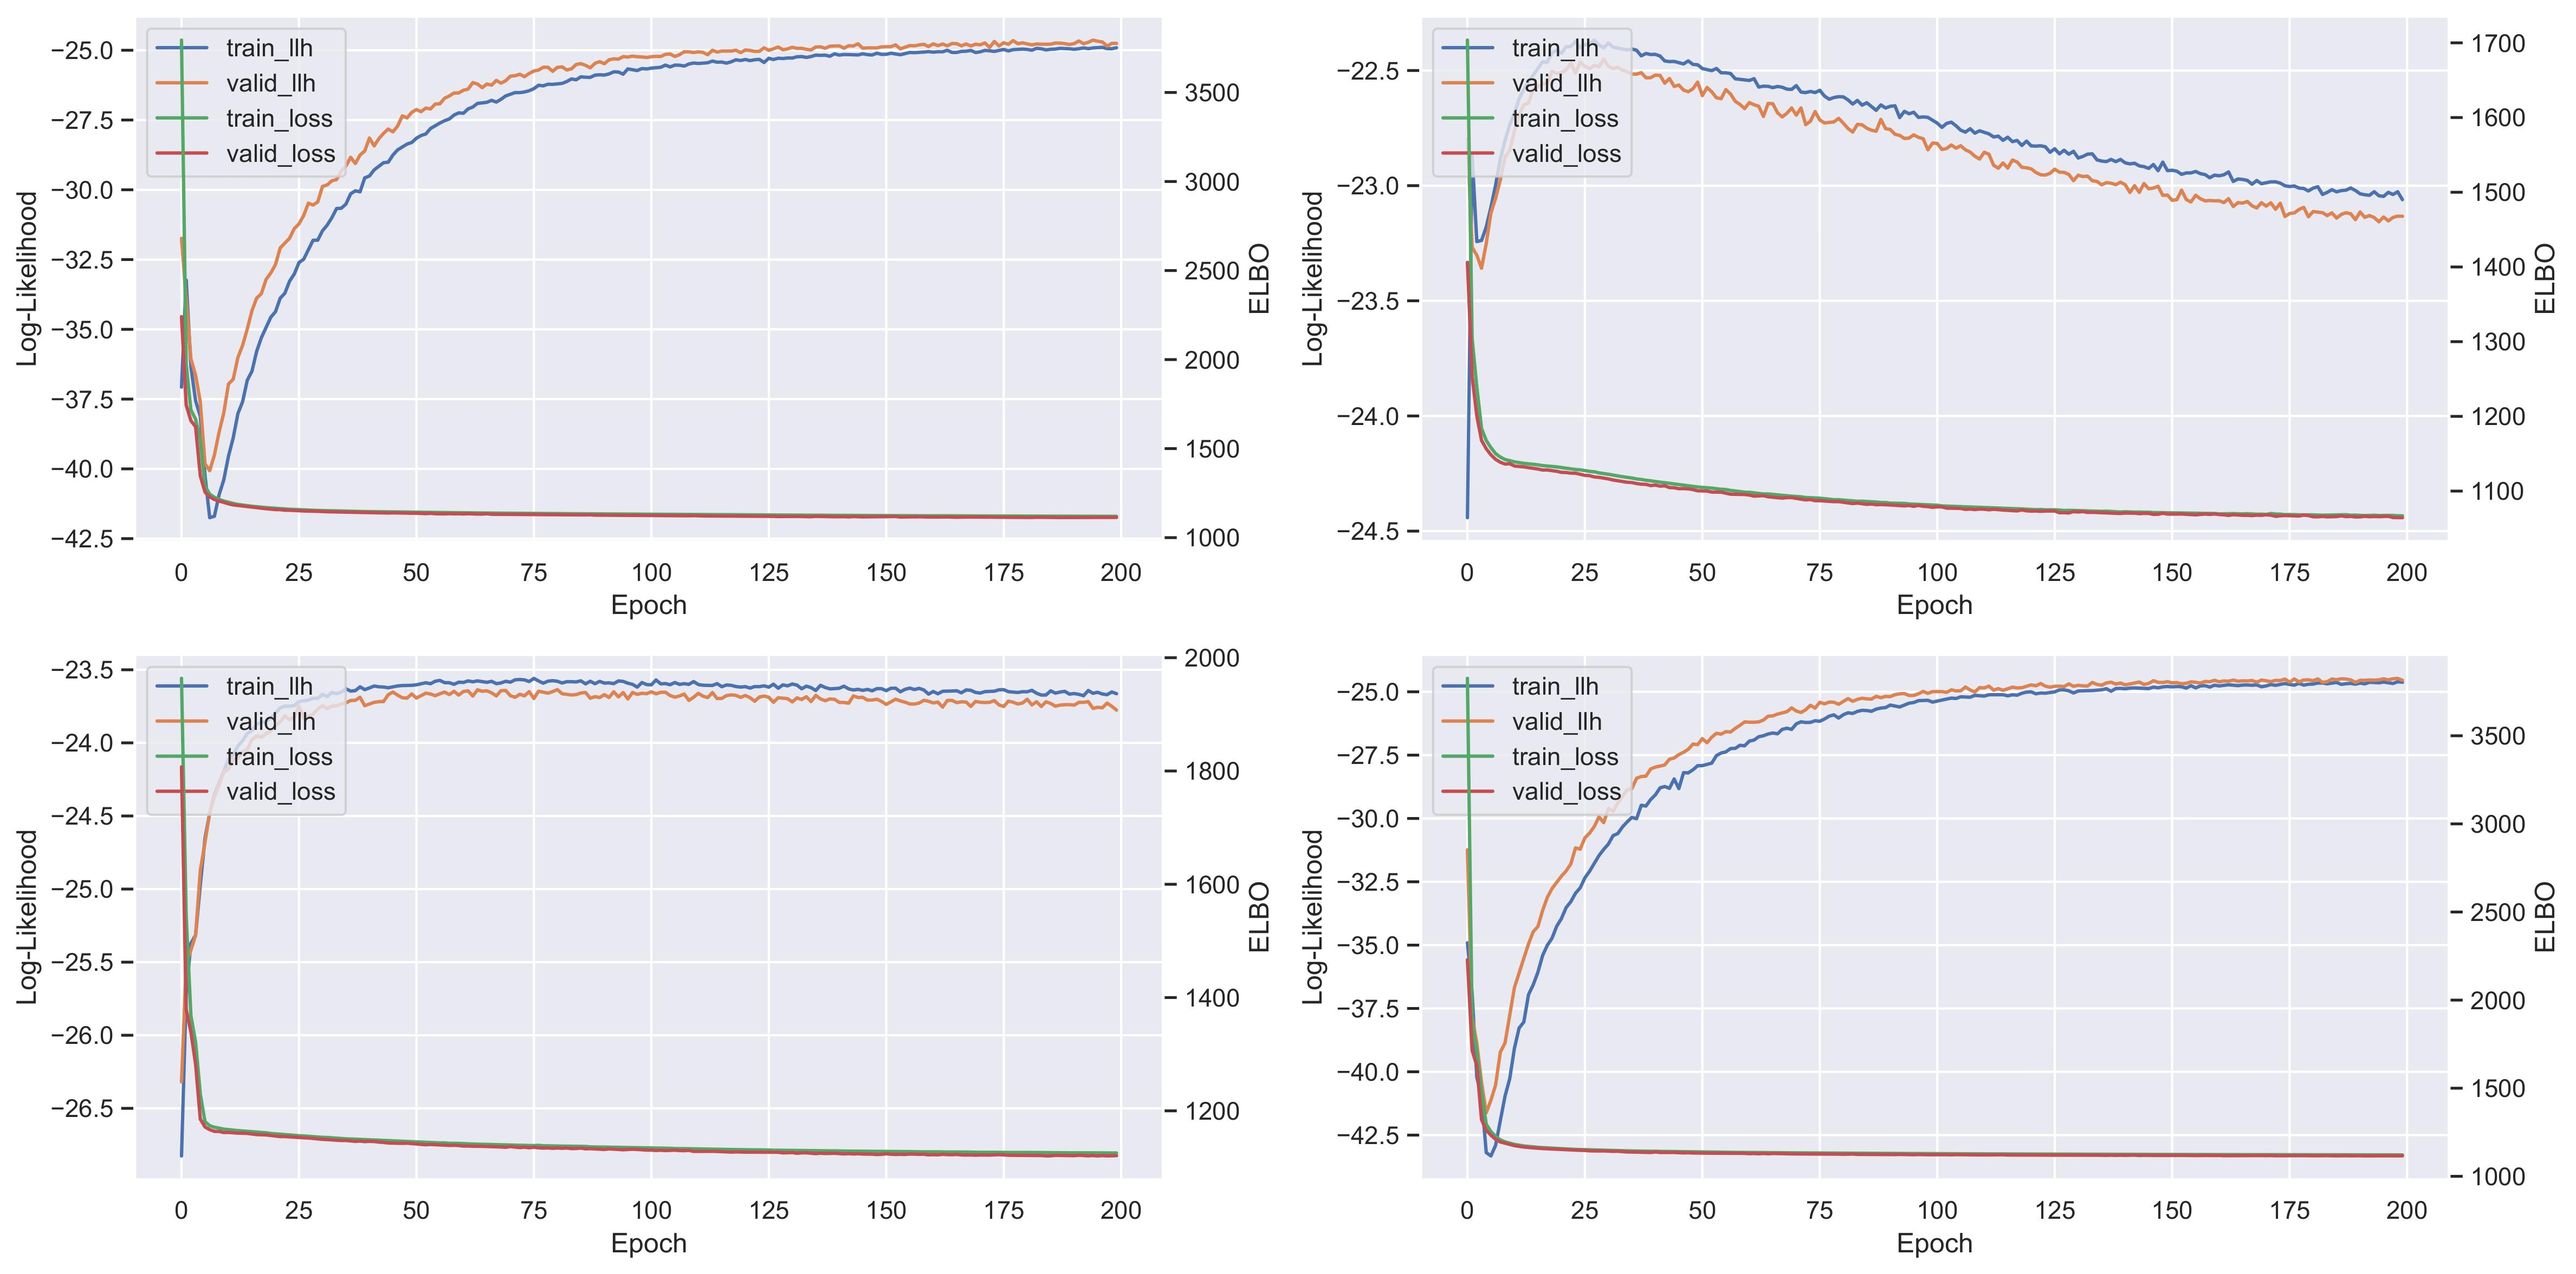
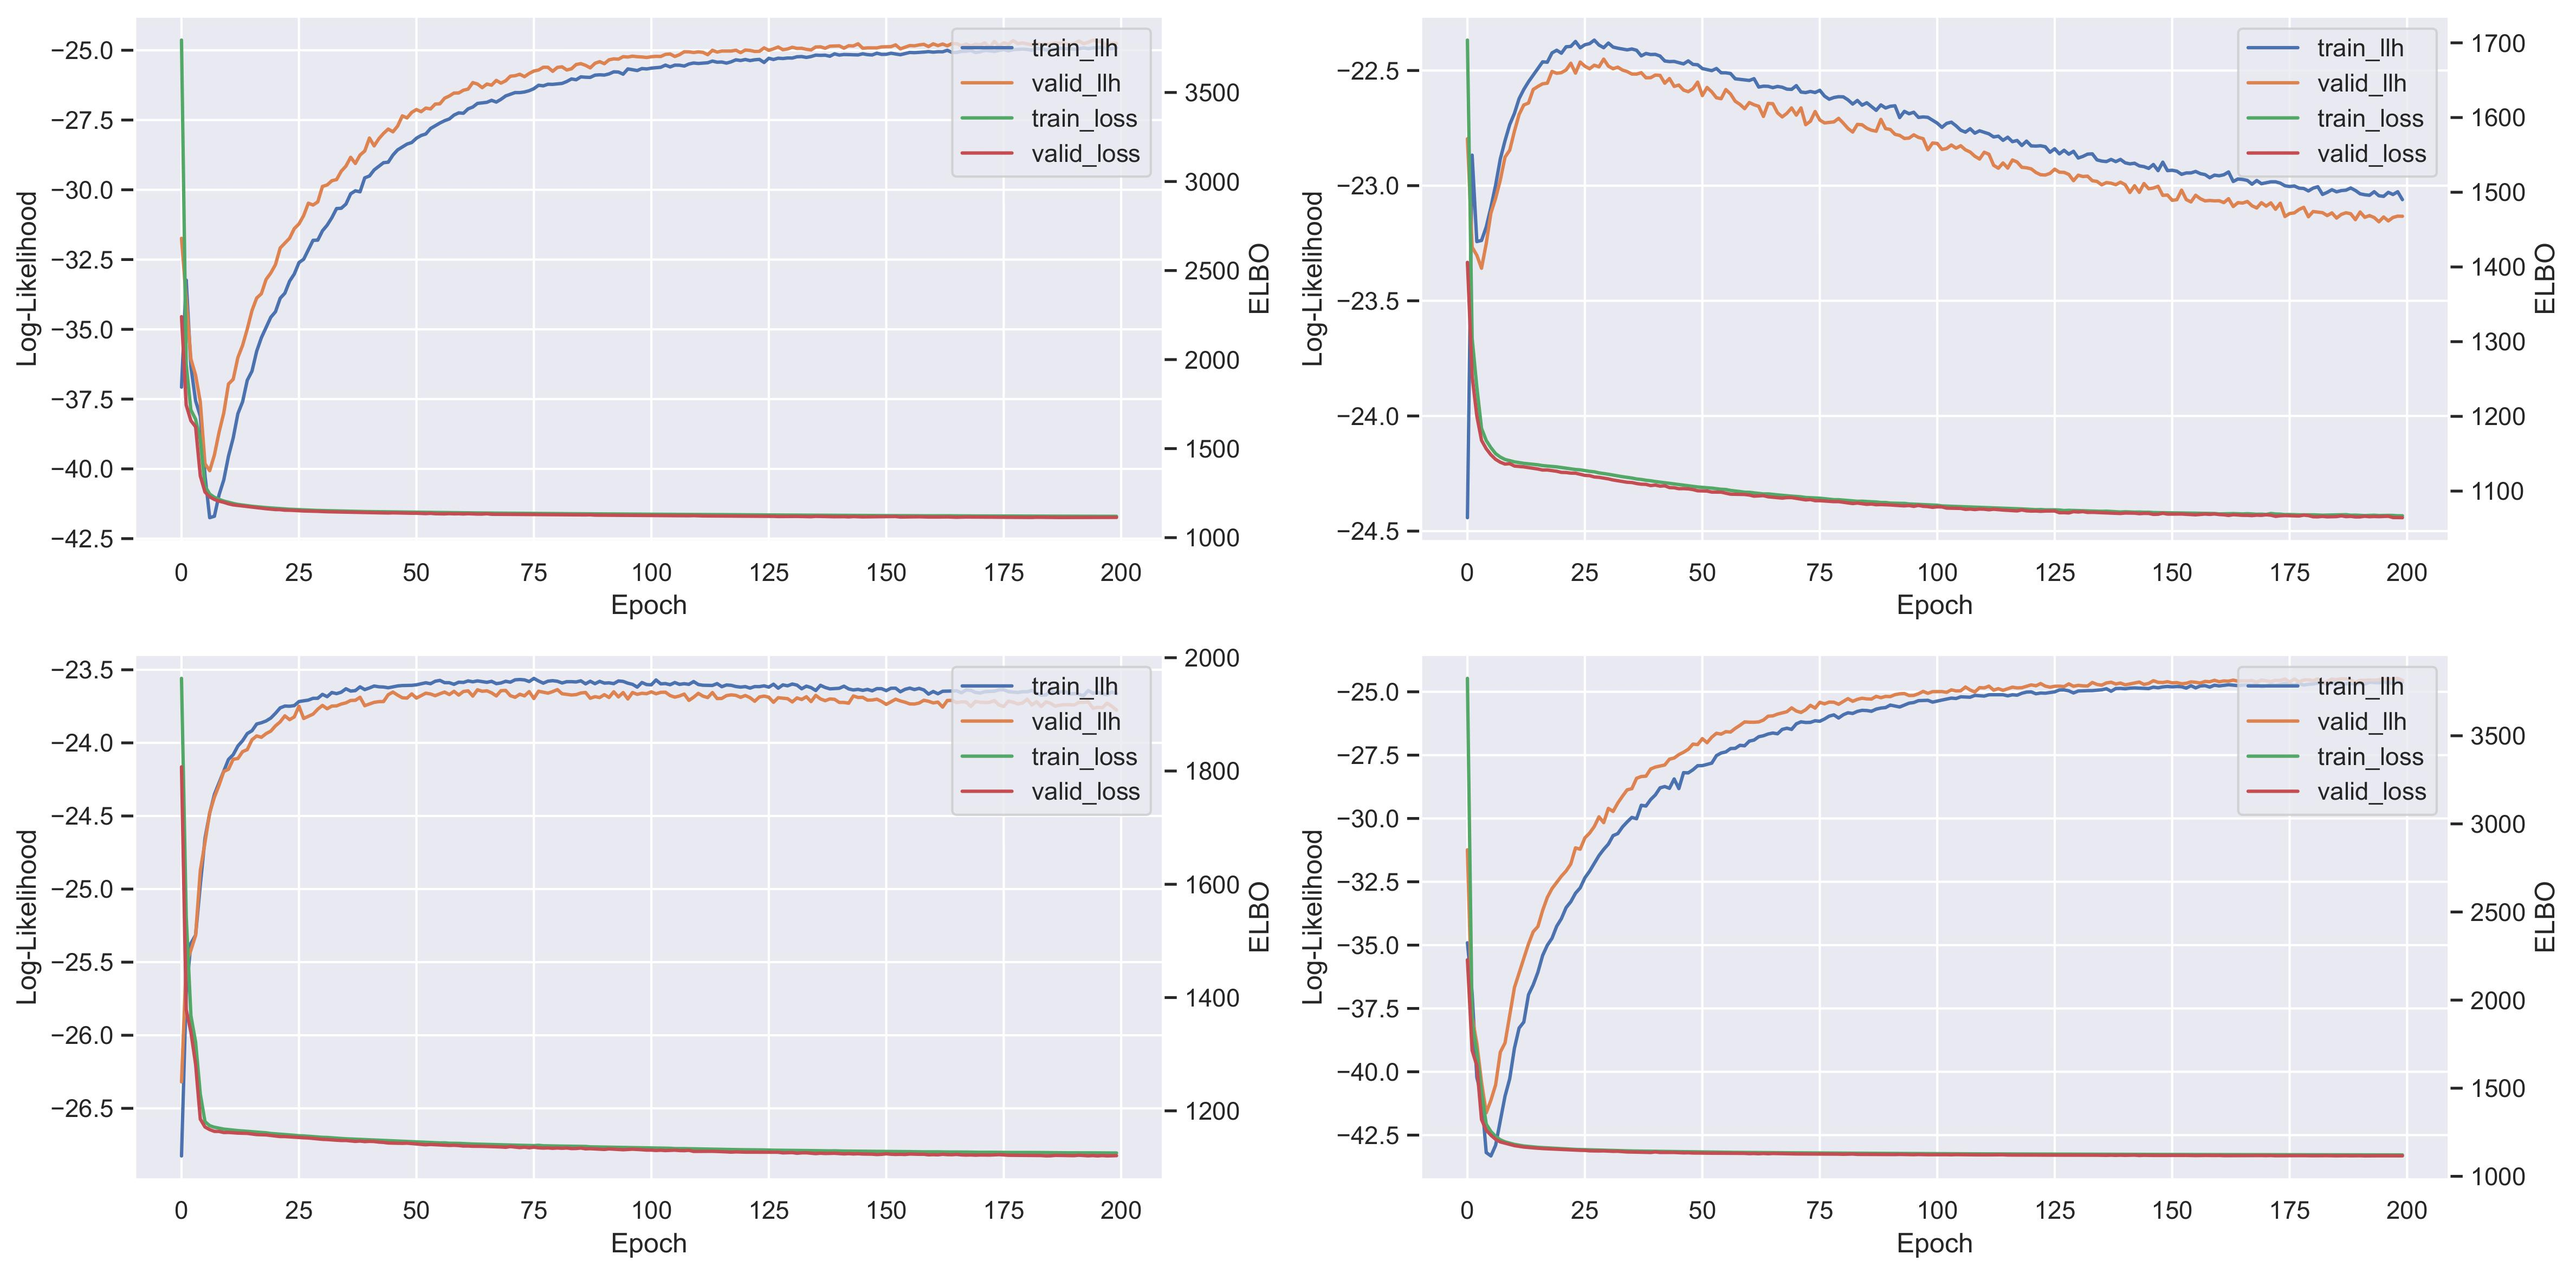
update

diff --git a/visualization/callback.py b/visualization/callback.py
@@ -36,7 +36,7 @@ def plot_callback(n):
 
         h, l = ax.get_legend_handles_labels()
         h_, l_ = ax_.get_legend_handles_labels()
-        ax.legend(h + h_, l + l_, loc="upper left")
+        ax.legend(h + h_, l + l_, loc="upper right")
 
     plt.tight_layout()
     fig.savefig(os.path.join(VAE_PATH, f"callback_m2_n{n}.pdf"), bbox_inches="tight")

diff --git a/main.py b/main.py
@@ -56,4 +56,4 @@ if __name__ == "__main__":
     # main(m=2, n=20, activation=nn.Tanh())
     # main(m=2, n=20, activation=nn.GELU())
     # plot_latent_2d(n=20)
-    plot_callback(n=2)
+    plot_callback(n=20)
